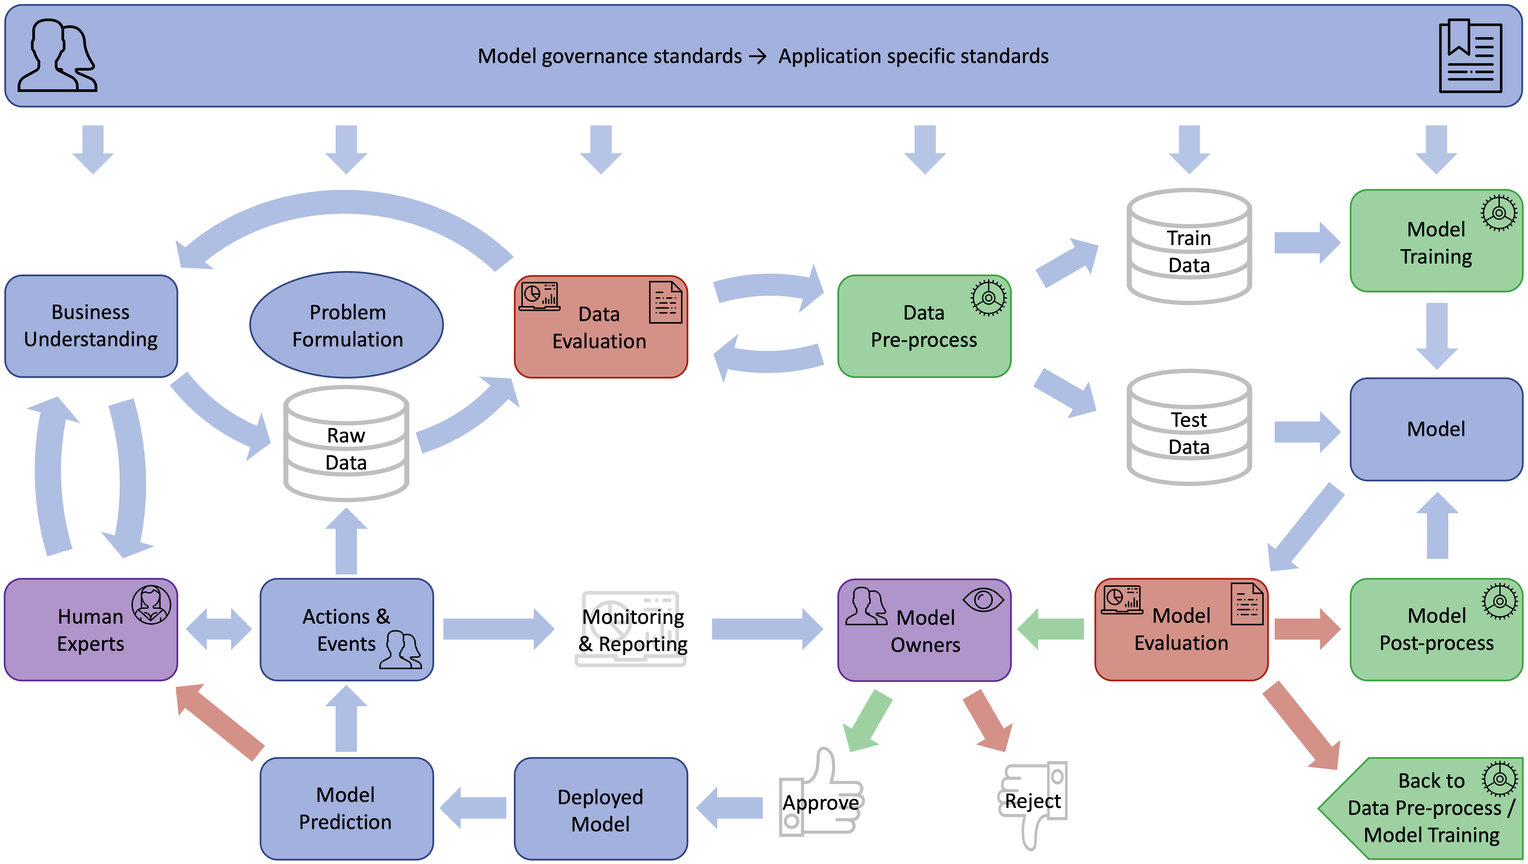
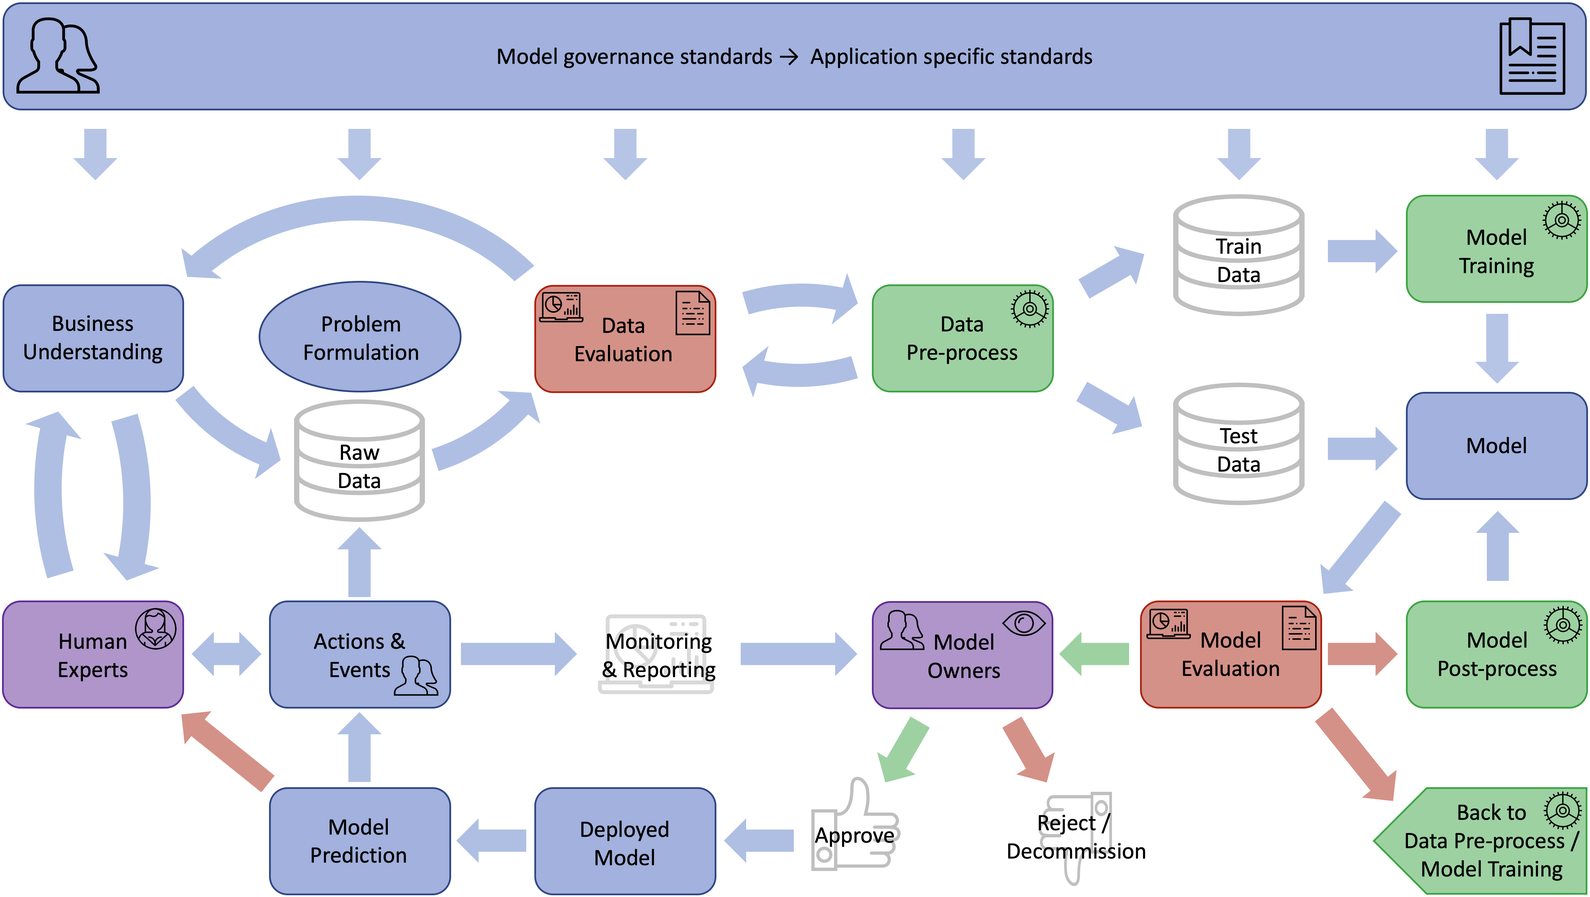
Edit up to section 2.3.1

diff --git a/index.html b/index.html
@@ -5,7 +5,7 @@
   <meta name="generator" content="pandoc">
   <meta name="viewport" content="width=device-width, initial-scale=1.0, user-scalable=yes">
   <meta name="author" content="Dr Leena Murgai">
-  <meta name="dcterms.date" content="2021-12-09">
+  <meta name="dcterms.date" content="2021-12-13">
   <title>Mitigating Bias in Machine Learning</title>
   <style type="text/css">code{white-space: pre;}</style>
   <link rel="stylesheet" href="tex2html/tufte/tufte.css">
@@ -37,7 +37,7 @@
 <header>
 <h1 class="title">Mitigating Bias in Machine Learning</h1>
 <p class="byline">Dr Leena Murgai</p>
-<p class="byline"> 9 December 2021</p>
+<p class="byline">13 December 2021</p>
 </header>
 <div class="TOC">
 <nav id="TOC">
@@ -57,7 +57,7 @@
 <li><a href="#ch_EthicalDev"><span class="toc-section-number">2</span> Ethical development</a>
 <ul>
 <li><a href="#machine-learning-cycle"><span class="toc-section-number">2.1</span> Machine Learning Cycle</a></li>
-<li><a href="#responsible-development-and-deployment"><span class="toc-section-number">2.2</span> Responsible development and deployment</a></li>
+<li><a href="#sec_ResponseDev"><span class="toc-section-number">2.2</span> Responsible development and deployment</a></li>
 <li><a href="#common-causes-of-harm"><span class="toc-section-number">2.3</span> Common causes of harm</a></li>
 <li><a href="#summary-1">Summary</a></li>
 </ul></li>
@@ -106,7 +106,7 @@
     <li><a href="#ch_EthicalDev"><span class="toc-section-number">2</span> Ethical development</a>
     <ul>
     <li><a href="#machine-learning-cycle"><span class="toc-section-number">2.1</span> Machine Learning Cycle</a></li>
-    <li><a href="#responsible-development-and-deployment"><span class="toc-section-number">2.2</span> Responsible development and deployment</a></li>
+    <li><a href="#sec_ResponseDev"><span class="toc-section-number">2.2</span> Responsible development and deployment</a></li>
     <li><a href="#common-causes-of-harm"><span class="toc-section-number">2.3</span> Common causes of harm</a></li>
     <li><a href="#summary-1">Summary</a></li>
     </ul></li>
@@ -1013,13 +1013,13 @@
 </span>. It’s higher than countries with authoritarian governments, those that have recently been locked in civil war and those with murder rates more than twice that in the US. Comparing with countries that have stable democratic governments, the incarceration rate in the US is more than 5 times that of its closest peer - the UK. The US spends $57 billion a year on housing more than 2.2 million people in prison<span class="citation" data-cites="BBCFLongSent"><a href="#ref-BBCFLongSent" role="doc-biblioref">[36]</a></span><span class="marginnote"><span id="ref-BBCFLongSent" class="csl-entry" role="doc-biblioentry">
 <span class="csl-left-margin">[36] </span><span class="csl-right-inline">B. Lufkin, <span>“The myth behind long prison sentences,”</span> <em>BBC Future</em>, May 2018.</span>
 </span>
-</span>, almost half of which are private companies that spend significant sums on lobbying the federal government for policies that would further increase incarceration. Some have advocated for the use of risk scores in sentencing in order to reduce the rate of incarceration, the idea being that if the risk scores are low then defendants can be spared prison time. What would the feedback effect on and disparity be for this usecase? what is the impact of the imbalance in error rates? What assumptions are you making in your to reach this conclusion?</p>
+</span>, almost half of which are private companies that spend significant sums on lobbying the federal government for policies that would further increase incarceration. Some have advocated for the use of risk scores in sentencing in order to reduce the rate of incarceration, the idea being that if the risk scores are low then defendants can be spared prison time. What might the feedback effect be for this usecase? What is the impact of the imbalance in error rates? What assumptions are you making to reach this conclusion?</p>
 </div>
 <p>Alternatively, suppose the software was used as a way to distribute limited rehabilitation resources, allocating them to those defendants that that were deemed to be at the highest risk of re-offending (and thus the most in need of intervention). Assuming the model to be accurate and that rehabilitation decreased the risk of reoffending, we can expect that using this model would serve to reduce existing disparities in recidivism rates between individuals. What about the imbalance in errors? Black defendents would more often erroneously be allocated rehabilitation resources and white defendents erroneously denied.</p>
 <p>We have made numerous assumptions in our analysis of the feedback above; rehabilitation consistently reduces the risk of recidivism (regardless of the crime), that the relationship between sentence length and recidivism risk is monotonic and increasing. That two years is a long enough time horizon to consider. Without getting into the weeds, the point here is simply that the same model can have a very different feedback cycle if used in a different way. How a model is used is important and its <em>performance</em> cannot be evaluated in isolation from its usecase. A question to ask is, does the action taken on the back of the model serve to push extremes to the centre, or push them further apart? The relationships you have to understand to answer the question, will depend on the specifics of the problem.</p>
 </section>
 </section>
-<section id="responsible-development-and-deployment" class="level2" data-number="2.2">
+<section id="sec_ResponseDev" class="level2" data-number="2.2">
 <h2 data-number="2.2"><span class="header-section-number">2.2</span> Responsible development and deployment</h2>
 <p>In this section we cover the more practical aspects of ethical model development and deployment. We take a take a higher level view of the process by which machine learning systems are created and identify the stages at which we can build in safety considerations. We take inspiration from model risk management in finance where models are ubiquitous. In banking, processes and policies with regard to development, testing, documentation, review, monitoring and reporting of model related valuation risk, have been developed over decades alongside regulation. Many of the ideas we discuss in this chapter were developed and implemented after the 2008 credit crisis in an effort to improve controls around valuation model risk for derivative products (more on this later).</p>
 <section id="development-and-deployment-lifecycle" class="level3" data-number="2.2.1">
@@ -1076,8 +1076,8 @@
 <li><p><strong>The number and complexity of the models being used by the business:</strong> An organisation that uses hundreds of models and composes them to create new products would benefit greatly from infrastructure and methodologies for measuring the materiality of the associated risks that would enable prioritisation of work related to mitigating them. In contrast, for a business based on a single model, this would be less of a concern.</p></li>
 <li><p><strong>Cost of errors:</strong> Where the stakes are high, pre-deployment testing will need to be extensive and prescribed in order to reduce the probability of making them. Well defined and mandatory processes will play an important role - checklists, contingency planning, detailed logging so postmortems and more. For these types of applications we would want authority over model use to be distributed to risk functions which determine when the product is approved for deployment and have the power to decommission them.</p></li>
 </ul>
-<p>Given this, how does one approach the problem of responsible development? Step zero is to create a set of governance standards, the purpose of which is to clearly define and communicate what responsible model development and deployment looks like for your specific application, use case, domain, business, principles and values. It essentially documents and communicates the why, who, what and how of your model risk management approach. <span style="color: red">Is it worth clarifying what we mean by model here, does it include humans? Our definition changes later when we discuss the taxonomy! What about the framing trap?</span></p>
-<p>What are the kinds of questions we might want our <span style="color: red">model</span> governance standards to answer?</p>
+<p>Given this, how does one approach the problem of responsible development? Step zero is to create a set of model governance standards, the purpose of which is to clearly define and communicate what responsible model development and deployment looks like for your specific application, use case, domain, business, principles and values. It essentially documents and communicates the why, who, what and how of your model risk management approach. <span style="color: red">Is it worth clarifying what we mean by model here, does it include humans? Our definition changes later when we discuss the taxonomy! What about the framing trap? Data + decision? Decision system governance? Covid vaccine fluff up.</span></p>
+<p>What are the kinds of questions we might want our model governance standards to answer?</p>
 <ul>
 <li><p><strong>Why is the work important?</strong> What kinds of events or uses of your models are you trying to avoid (or said another way are outside of the organisation’s risk appetite)? What legislation is the company subject to? What are the consequences of failures? What are the values of the company that you want to protect?</p></li>
 <li><p><strong>Who is responsible?</strong> Who are the stakeholders? Who is accountable for managing each the various identified problems? What are the required roles that must be fullfilled to manage the risks.</p></li>
@@ -1144,18 +1144,22 @@
 </section>
 <section id="common-causes-of-harm" class="level2" data-number="2.3">
 <h2 data-number="2.3"><span class="header-section-number">2.3</span> Common causes of harm</h2>
-<p>There are many ways in which machine learning solutions can result in harm. In this section we present a taxonomy of common causes of harm and then discuss it in more detail providing examples. At the end of the section, we’ll relate the causes in our taxonomy to the corresponding stages of the model development and deployment life cycle (discussed earlier) at which consideration could prevent them from arising. The goal is for this to serve as a good starting point for a reference for developing fairer models; avoid common pitfalls and ensure that we, as data scientists and developers of these technologies, perform an appropriate level of due dilligence before releasing our work.</p>
-<p>Creating a taxonomy is not as straightforward as one might hope. There is no agreed upon terminology that describes the different types of issues that can arise or agreed upon framework for developing machine learning solutions that factor in safety concerns (since there are no regulations). Indeed, developing one is the subject of recent research, <span class="citation" data-cites="ConsClfn"><a href="#ref-ConsClfn" role="doc-biblioref">[40]</a></span><span class="marginnote"><span id="ref-ConsClfn" class="csl-entry" role="doc-biblioentry">
+<p>There are many ways in which machine learning solutions can result in harm. In this section we present a taxonomy of common causes and provide examples. At the end of the section, we’ll relate the causes in our taxonomy to the corresponding stages of the model development and deployment life cycle (discussed earlier), indicating where consideration and intervention could prevent them from arising. The goal is for this to serve as a good starting point as a practical reference for developing fairer models. For practicing data scientists it could be helpful as a standard to compare our current practices against, avoid common pitfalls and hopefully help ensure we perform and appropriate level of due dilligence before releasing our work.</p>
+<p>Before presenting this taxonomy, it’s worth being clear that, in reality, there is no agreed upon terminology that describes the different types of issues that can arise or agreed upon framework for developing machine learning solutions that factor in ethical safety concerns (since regulation surrounding algorithmic decision systems is still in the process of being shaped). Indeed, developing one is the subject of recent research, <span class="citation" data-cites="ConsClfn"><a href="#ref-ConsClfn" role="doc-biblioref">[40]</a></span><span class="marginnote"><span id="ref-ConsClfn" class="csl-entry" role="doc-biblioentry">
 <span class="csl-left-margin">[40] </span><span class="csl-right-inline">B. d’Alessandro, C. O’Neil, and T. LaGatta, <span>“Conscientious classification: A data scientist’s guide to discrimination-aware classification,”</span> <em>Big Data</em>, vol. 5, no. 2, pp. 120–134, 2017, doi: <a href="https://doi.org/10.1089/big.2016.0048">10.1089/big.2016.0048</a>.</span>
 </span>
 </span>, <span class="citation" data-cites="BiasFramework"><a href="#ref-BiasFramework" role="doc-biblioref">[41]</a></span><span class="marginnote"><span id="ref-BiasFramework" class="csl-entry" role="doc-biblioentry">
 <span class="csl-left-margin">[41] </span><span class="csl-right-inline">H. Suresh and J. Guttag, <span>“A framework for understanding sources of harm throughout the machine learning life cycle,”</span> 2021.</span>
 </span>
-</span>, <span class="citation" data-cites="DS4DS"><a href="#ref-DS4DS" role="doc-biblioref">[38]</a></span>, <span class="citation" data-cites="MC4MR"><a href="#ref-MC4MR" role="doc-biblioref">[39]</a></span>. The word bias itself has many definitions and even in a given context can have multiple valid interpretations. Different practitioners would likely describe the same type of bias differently. Causes of bias in machine learning applications are often numerous and overlapping, thus difficult to attribute to a single source or prescribe a single solution for. The most appropriate remedy itself will be very much context dependent, different practitioners may not even agree.</p>
-<p><span style="color: red">Chapter 1: What is bias?</span></p>
-<p><span style="color: red">Define model? Data + decision? Decision system governance? Covid vaccine fluff up.</span></p>
-<p>For it’s practical value, at a high level we follow the taxonomy described by d’Alessandro et. al.<span class="citation" data-cites="ConsClfn"><a href="#ref-ConsClfn" role="doc-biblioref">[40]</a></span>, in which the model is distinguished from the larger system of which it is a component. The <strong>system</strong> includes the infrastructure, processes, policies and risk controls around development, deployment, monitoring and maintenace of the decision system. While the <strong>model</strong> is defined as the function mapping <span class="math inline">f</span> from features <span class="math inline">(\boldsymbol{X}, \boldsymbol{Z})</span> to predictions <span class="math inline">\hat{Y}</span>. We aim to layout both the points at which issues arise and the various points at which one could assess and intervene if necessary. For this reason, the table may appear to contain duplications of the same problem viewed from different perspectives. This is intentional. In many organisations, different parts of the system might be developed independently and so this adds value. It’s not uncommon, thanks to unprecidented growth in data vendors, for models to be built on independently collected data.</p>
-<p>Evidence based medicine provides a rich terminology for different types of bias (causes of systematic errors) and has perhaps the most comprehensive set of definitions and classification of bias types. This in itself can provide an important reference in determining which kinds of biases model developers should be aware of and we include some of them here. Table <a href="#tbl:Taxonomy" data-reference-type="ref" data-reference="tbl:Taxonomy">2.2</a> summarises our taxonomy of common causes of harm in machine learning systems.</p>
+</span>, <span class="citation" data-cites="DS4DS"><a href="#ref-DS4DS" role="doc-biblioref">[38]</a></span>, <span class="citation" data-cites="MC4MR"><a href="#ref-MC4MR" role="doc-biblioref">[39]</a></span>. The word bias itself has many definitions and even in a given context can have multiple valid interpretations. Different practitioners would likely describe the same type of bias differently. Causes of bias in machine learning applications are often numerous and overlapping, thus difficult to attribute to a single source or prescribe a single solution for. The most appropriate remedy itself will be very much context dependent and different practitioners will choose different approaches.</p>
+<p>In creating this taxonomy, we take inspiration from that described by d’Alessandro et. al.<span class="citation" data-cites="ConsClfn"><a href="#ref-ConsClfn" role="doc-biblioref">[40]</a></span>, in which the <em>model</em> or algorithm, is distinguished from the larger <em>system</em> through which it is created, implemented and managed.</p>
+<ul>
+<li><p>The <strong>system</strong> includes the people, infrastructure, processes, policies and risk controls around development, deployment, monitoring and maintenace of the decision system.</p></li>
+<li><p>The <strong>model</strong> is defined as the function mapping <span class="math inline">f</span> from features <span class="math inline">(\boldsymbol{X}, \boldsymbol{Z})</span> to predictions <span class="math inline">\hat{Y}</span>.</p></li>
+</ul>
+<p>Note that in our terminology, the model is simply a mapping it need not be learned by calibration to historic data. Depending on the nature of the system, not all the items in the taxomomy will apply (not the learning related issues, in this case), but some will. Any algorithm where the decision being made is important enough should be treated as such and proper precautions taken. For an algorithm which will be used in production, this should mean being subject to code review and unit testing that demonstrates its validity in some well chosen cases. A good example of where this would have been valuable came up in Decemeber 2020 when a bug in an algorithm, meant that <a href="https://www.npr.org/sections/coronavirus-live-updates/2020/12/18/948176807/stanford-apologizes-after-vaccine-allocation-leaves-out-nearly-all-medical-resid">Stanford Hospital Residents were not correctly prioritised for the COVID-19 vaccine</a>, despite working with COVID-19 patients daily. The algorithm did not apparently account for the fact that Resident doctors had the location field as blank in the data. Part of the problem is the ease with which one can implement an algorithm. We might never know the details of how it was implemented and tested but I find it hard not to picture a spreadsheet being involved. Spreadsheet calculations are prone to error and should be used with extreme caution where the stakes are high. In finance they are seen as a risk control issue. A spreadsheet simply isn’t the best choice where unit tests and code review are important. And when was the last time you wrote unit tests for a spreadsheet?</p>
+<p>In our taxonomy, we aim to layout both the points at which issues arise and the various points at which one could assess and intervene. For this reason, the table may appear to contain duplications of the same problem viewed from different perspectives. This is intentional. Often different parts of an application are developed independently. It’s not uncommon for example (thanks to unprecidented growth in data markets), for models to be built by one organisation, based on data collected by another. Taking this approach in beneficial since it provides multiple opportunities to spot and remedy the same problems.</p>
+<p>Evidence based medicine provides a rich terminology for different mechanisms through which systematic errors can be introduced in data and has perhaps the most comprehensive set of definitions and classification of bias types. This in itself can provide an important reference in determining which kinds of biases model developers should be aware of and we include some of them here. Table <a href="#tbl:Taxonomy" data-reference-type="ref" data-reference="tbl:Taxonomy">2.2</a> summarises our taxonomy of common causes of harm in machine learning systems.</p>
 <div id="tbl:Taxonomy">
 <table>
 <caption>Table 2.2: Taxonomy of common causes of harm in machine learning systems.</caption>
@@ -1191,18 +1195,17 @@
 </tr>
 <tr class="even">
 <td style="text-align: left;" rowspan="6">Controls</td>
-<td style="text-align: left;" rowspan="2">Deployment bias</td>
+<td style="text-align: left;">Deployment bias</td>
 <td style="text-align: left;">Inappropriate model use / Misinterpretation of model results</td>
 </tr>
 <tr class="odd">
+<td style="text-align: left;" rowspan="3">Validation</td>
 <td style="text-align: left;">Data appropriateness and preparation</td>
 </tr>
 <tr class="even">
-<td style="text-align: left;"></td>
 <td style="text-align: left;">Modelling approach and implementation</td>
 </tr>
 <tr class="odd">
-<td style="text-align: left;"></td>
 <td style="text-align: left;">Model evaluation (pre and post deployment metrics)</td>
 </tr>
 <tr class="even">
@@ -1285,50 +1288,11 @@
 </div>
 <section id="system-issues" class="level3" data-number="2.3.1">
 <h3 data-number="2.3.1"><span class="header-section-number">2.3.1</span> System issues</h3>
-<p>In this section we discuss failures that relate to the larger decision system (rather than more directly to the model mapping). In section <a href="#sec_ProcessPolicy" data-reference-type="ref" data-reference="sec_ProcessPolicy">2.2.2</a> we discussed the kinds of processes, policies, roles and responsibilities that might exist as part of a fairness aware model development, deployment and management workflow. In this section we briefly discuss the kinds of harms that can result in the absence of these. We think of system failures being one of two types,</p>
+<p>In section <a href="#sec_ResponseDev" data-reference-type="ref" data-reference="sec_ResponseDev">2.2</a> we discussed a framework for responsible development and deplyment of models. We summarise important elements of that discussion under system issues in our taxonomy of harms. The idea is that if having a process in place could avoid certain types of harms, then not having them is a failure of the system surrounding the model. We think of system failures being one of two types,</p>
 <ol>
 <li><p>those that can be resolved by through improvements in process and policies.</p></li>
 <li><p>those that can be (at least partially) mitigated through better controls around the risk related to the application.</p></li>
 </ol>
-<section id="process-policy-issues" class="level4 unnumbered" style="color: red">
-<h4 class="unnumbered">Process / Policy issues</h4>
-</section>
-<section id="prioritisation" class="level5 unnumbered" style="color: red">
-<h5 class="unnumbered">Prioritisation</h5>
-<p>Failure to allocate appropriate/sufficient resource</p>
-</section>
-<p><span style="color: red">Failure to distribute power to manage conflicts of interest</span></p>
-<section id="governance" class="level5 unnumbered" style="color: red">
-<h5 class="unnumbered">Governance</h5>
-<p>Failure to set or comply with application specific standards</p>
-</section>
-<section id="risk-assessment" class="level5 unnumbered" style="color: red">
-<h5 class="unnumbered">Risk Assessment</h5>
-<p>Failure to assess possible severity of impact</p>
-</section>
-<section id="accountability" class="level5 unnumbered" style="color: red">
-<h5 class="unnumbered">Accountability</h5>
-<p>Non deference to human domain expert</p>
-</section>
-<section id="controls" class="level4 unnumbered" style="color: red">
-<h4 class="unnumbered">Controls</h4>
-</section>
-<section id="deployment-bias" class="level5 unnumbered" style="color: red">
-<h5 class="unnumbered">Deployment bias</h5>
-<p>Inappropriate model use</p>
-</section>
-<p><span style="color: red">Misinterpretation of model results</span></p>
-<section id="validation" class="level5 unnumbered" style="color: red">
-<h5 class="unnumbered">Validation</h5>
-<p>Data appropriateness and preparation</p>
-</section>
-<p><span style="color: red">Modelling approach and implementation</span></p>
-<p><span style="color: red">Model evaluation (pre and post deployment metrics)</span></p>
-<section id="monitoring" class="level5 unnumbered" style="color: red">
-<h5 class="unnumbered">Monitoring</h5>
-<p>Poor feedback/monitoring of model validity and impact</p>
-</section>
-<p><span style="color: red">Poor monitoring of risk exposure</span></p>
 <section id="failure-to-validate" class="level4 unnumbered">
 <h4 class="unnumbered">1. Failure to validate</h4>
 <p>We discuss two important aspects of the modelling which should be appropriately validated pre-deployment</p>
@@ -1460,7 +1424,7 @@
 <li><p>Just as we can create pernicious machine learning cycles that exaggerate disparities, we can also create virtuous ones that have the effect of reducing disparities. Therefore it’s important to consider the whole machine learning cycle when formulating a machine learning problem</p></li>
 </ul>
 </section>
-<section id="responsible-development-and-deployment-1" class="level3 unnumbered">
+<section id="responsible-development-and-deployment" class="level3 unnumbered">
 <h3 class="unnumbered">Responsible development and deployment</h3>
 <section id="fairness-and-bias-interventions" class="level4 unnumbered">
 <h4 class="unnumbered">Fairness and bias interventions</h4>
